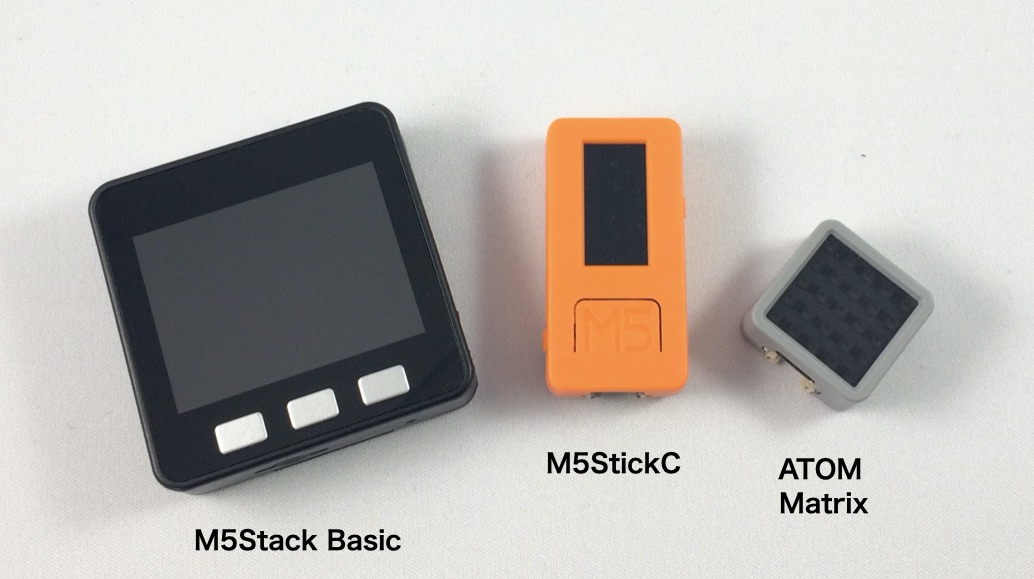
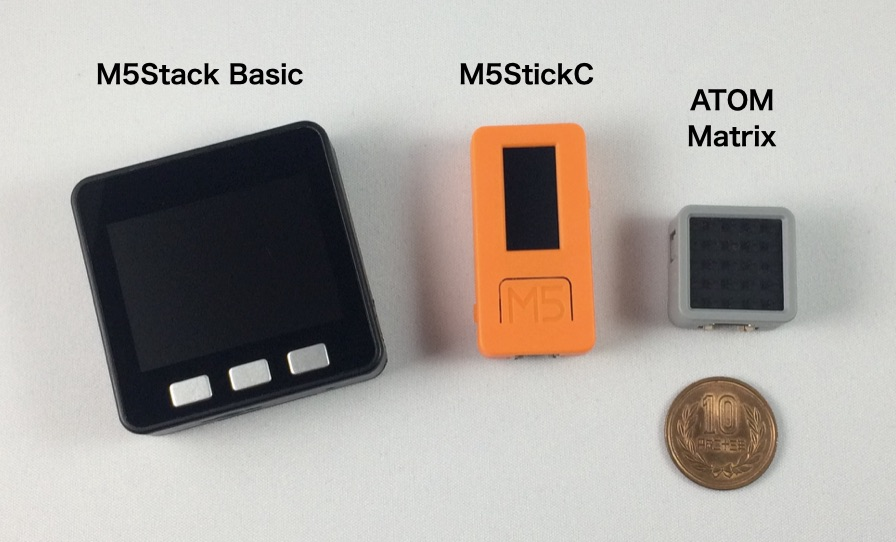
2020年5月

diff --git a/m5monthlyupdate/202005/index.html b/m5monthlyupdate/202005/index.html
@@ -210,8 +210,12 @@
                 <p><img src="./images/stack-stickc-atom.jpg" width="100%" class="img-responsive center-block" alt="stack-stickc-atom"></p>
 
                 <h2 id="atom-matrix、lite">ATOM Matrix、Lite</h2>
-                <p>ATOM Matrix、ATOM LiteはM5Stack、M5StickCに続く新しい開発モジュールです。上の写真の左からM5Stack Basic、M5StickC、ATOM Matrixです。M5Stack、M5StickCにあった液晶画面がなくなり、24 x 24ミリと小さくなりました。M5Stack、M5StickCと比べるとその小ささが分かります。おもちゃやIoT端末などのコントローラとしてとても便利に使えそうです。</p>
-                <p>内部にはM5StackやM5StickCと同じESP32というマイコンが搭載されています。ESP32に内蔵される通信モジュールにより、Wi-FiとBluetoothで通信できます。プログラムはArduino、UI Flow、MicroPythonで作ることができます。</p>
+                <p>ATOM Matrix、ATOM LiteはM5Stack、M5StickCに続く新しい開発モジュールです。上の写真の左からM5Stack Basic、M5StickC、ATOM Matrixです。
+                    M5Stack、M5StickCにあった液晶画面がなくなり、24 x 24ミリと小さくなりました。10円玉の直径が23.5ミリなので、ほぼ10円玉と同じサイズです。
+                    おもちゃやIoT端末などのコントローラとしてとても便利に使えそうです。</p>
+                <p>押しボタンのようなサイズのケースの中にM5StackやM5StickCと同じESP32というマイコンが搭載されていて、
+                    ESP32に内蔵される通信モジュールにより、Wi-FiとBluetoothで通信できます。
+                    これだけでArduino端末ですし、UI FlowやMicroPythonでもプログラミングできる優れものです。</p>
                 <p>ATOMの主なスペックをM5Stack、M5StickCと比べてみました。</p>
                 <p><img src="./images/m5stack-spec.jpg" width="100%" class="img-responsive center-block" alt="M5stack-spec"></p>
 
